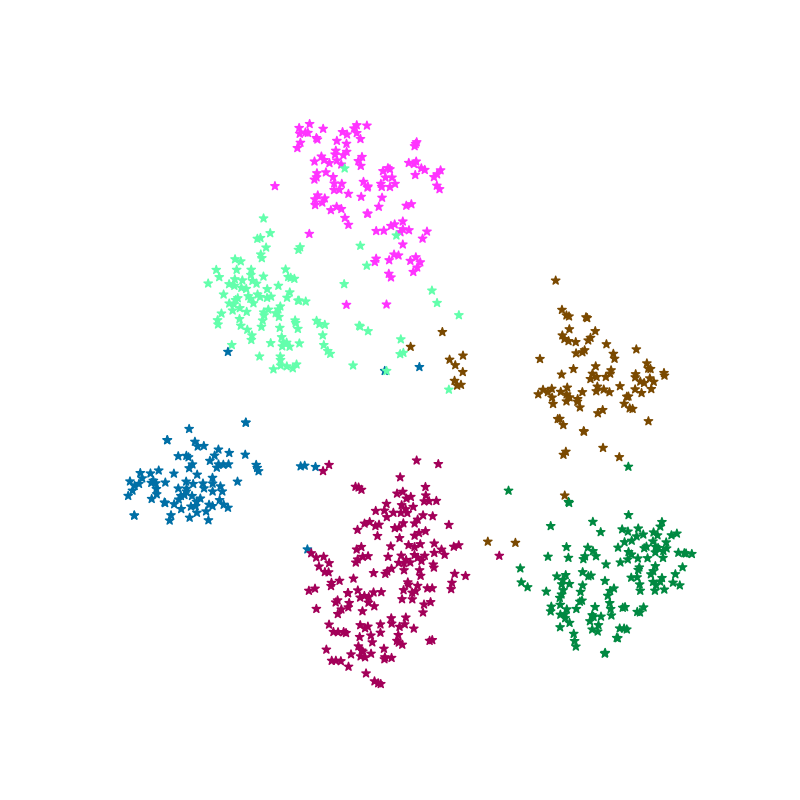
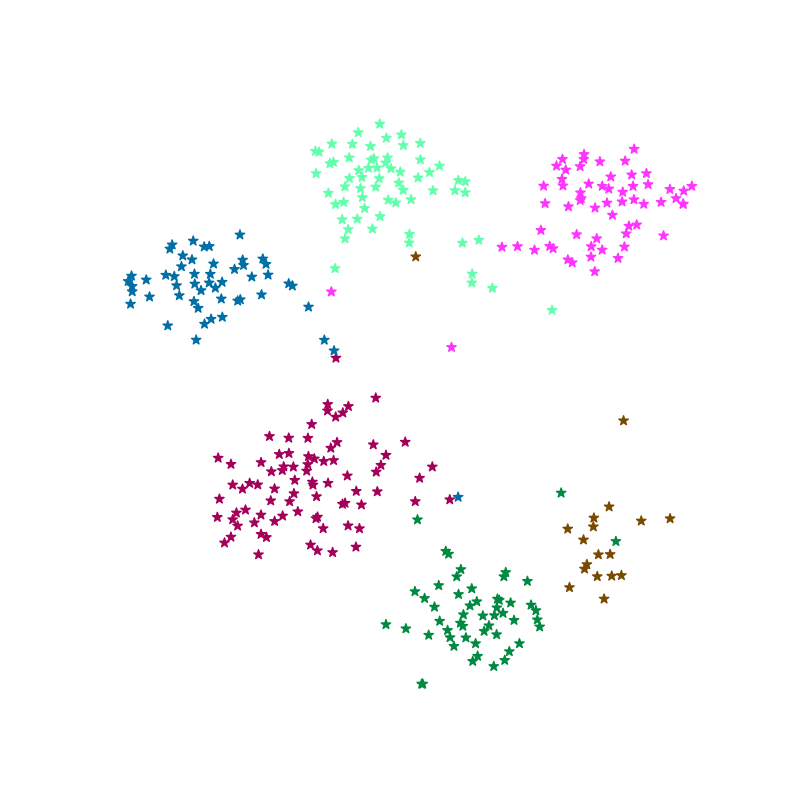
polish

diff --git a/view-vals.py b/view-vals.py
@@ -10,24 +10,24 @@ accuracy_office = [89.4, 89.6, 89.9, 89.6, 88.9, 88.6]
 
 # 创建图像
 plt.figure(figsize=(8, 6))
-
+fontsize = 20
 # 为两个数据集绘制曲线
 plt.plot(Y, accuracy_visda, '-o', color='red', label='VisDA-C')
 plt.plot(Y, accuracy_office, '-o', color='blue', label='Office')
 
 # 为每个数据点添加标签
 for i, txt in enumerate(accuracy_visda):
-    plt.annotate(f"{txt}", (Y[i], accuracy_visda[i] - 0.5), ha='center', color='black',fontsize=15)
+    plt.annotate(f"{txt}", (Y[i], accuracy_visda[i] - 0.5), ha='center', color='black',fontsize=fontsize)
 for i, txt in enumerate(accuracy_office):
-    plt.annotate(f"{txt}", (Y[i], accuracy_office[i] + 0.5), ha='center', color='black',fontsize=15)
+    plt.annotate(f"{txt}", (Y[i], accuracy_office[i] + 0.5), ha='center', color='black',fontsize=fontsize)
 
 # 设置图的其他属性
-plt.xlabel('γ', fontsize=15 )
-plt.ylabel('Accuracy (%)',fontsize=15)
+plt.xlabel('γ', fontsize=fontsize )
+plt.ylabel('Accuracy (%)',fontsize=fontsize)
 plt.ylim(80, 95)
 plt.grid(True, which='both', linestyle='--', linewidth=0.5)
-plt.legend(fontsize=15, loc='lower right' )
-plt.tick_params(labelsize=15)
+plt.legend(fontsize=fontsize, loc='lower right' )
+plt.tick_params(labelsize=fontsize)
 
 # 显示图像
 plt.tight_layout()
@@ -42,24 +42,23 @@ accuracy_office_1 = [86.7, 89.0, 89.5, 89.8, 89.9, 89.9, 89.6]
 
 # 创建图像
 plt.figure(figsize=(8, 6))
-
 # 为两个数据集绘制曲线
 plt.plot(tau, accuracy_visda_1, '-o', color='red', label='VisDA-C')
 plt.plot(tau, accuracy_office_1, '-o', color='blue', label='Office')
 
 # 为每个数据点添加标签
 for i, txt in enumerate(accuracy_visda_1):
-    plt.annotate(f"{txt}", (tau[i], accuracy_visda_1[i] - 0.5), ha='center', color='black',fontsize=15)
+    plt.annotate(f"{txt}", (tau[i], accuracy_visda_1[i] - 0.5), ha='center', color='black',fontsize=fontsize)
 for i, txt in enumerate(accuracy_office_1):
-    plt.annotate(f"{txt}", (tau[i], accuracy_office_1[i] + 0.5), ha='center', color='black',fontsize=15)
+    plt.annotate(f"{txt}", (tau[i], accuracy_office_1[i] + 0.5), ha='center', color='black',fontsize=fontsize)
 
 # 设置图的其他属性
-plt.xlabel('τ', fontsize=15 )
-plt.ylabel('Accuracy (%)',fontsize=15)
+plt.xlabel('τ', fontsize=fontsize )
+plt.ylabel('Accuracy (%)',fontsize=fontsize)
 plt.ylim(80, 95)
 plt.grid(True, which='both', linestyle='--', linewidth=0.5)
-plt.legend(fontsize=15, loc='lower right' )
-plt.tick_params(labelsize=15)
+plt.legend(fontsize=fontsize, loc='lower right' )
+plt.tick_params(labelsize=fontsize)
 
 # 显示图像
 plt.tight_layout()
@@ -75,24 +74,23 @@ accuracy_office_2 = [89.4, 89.9, 89.1, 89.3, 89.2]
 
 # 创建图像
 plt.figure(figsize=(8, 6))
-
 # 为两个数据集绘制曲线
 plt.plot(k, accuracy_visda_2, '-o', color='red', label='VisDA-C')
 plt.plot(k, accuracy_office_2, '-o', color='blue', label='Office')
 
 # 为每个数据点添加标签
 for i, txt in enumerate(accuracy_visda_2):
-    plt.annotate(f"{txt}", (k[i], accuracy_visda_2[i] - 0.5), ha='center', color='black',fontsize=15)
+    plt.annotate(f"{txt}", (k[i], accuracy_visda_2[i] - 0.5), ha='center', color='black',fontsize=fontsize)
 for i, txt in enumerate(accuracy_office_2):
-    plt.annotate(f"{txt}", (k[i], accuracy_office_2[i] + 0.5), ha='center', color='black',fontsize=15)
+    plt.annotate(f"{txt}", (k[i], accuracy_office_2[i] + 0.5), ha='center', color='black',fontsize=fontsize)
 
 # 设置图的其他属性
-plt.xlabel('k', fontsize=15 )
-plt.ylabel('Accuracy (%)',fontsize=15)
+plt.xlabel('k', fontsize=fontsize )
+plt.ylabel('Accuracy (%)',fontsize=fontsize)
 plt.ylim(80, 95)
 plt.grid(True, which='both', linestyle='--', linewidth=0.5)
-plt.legend(fontsize=15, loc='lower right' )
-plt.tick_params(labelsize=15)
+plt.legend(fontsize=fontsize, loc='lower right' )
+plt.tick_params(labelsize=fontsize)
 
 # 显示图像
 plt.tight_layout()

diff --git a/view-fig1-pse-label.py b/view-fig1-pse-label.py
@@ -17,7 +17,6 @@ torch.manual_seed(SEED)
 torch.cuda.manual_seed_all(SEED)
 np.random.seed(SEED)
 random.seed(SEED)
-torch.backends.cudnn.benchmark = True
 
 parser = argparse.ArgumentParser(description='SHOT')
 parser.add_argument('--dset', type=str, default='VISDA-C')
@@ -58,13 +57,14 @@ print(f'len of dataset:{len(mem_label)}')
 n_per_class = 100
 n_class = 5
 class_order = [0, 2, 4, 6, 8, 10]
+# class_order = [0, 1, 2, 3, 4, 5]
 n_samples = 2000
-
+start = 2000
 all_fea = all_fea.cpu().numpy()
 all_label = all_label.cpu().numpy()
-x = all_fea[:n_samples]
-y = all_label[:n_samples]
-mem_label = mem_label[:n_samples]
+x = all_fea[start:start+n_samples]
+y = all_label[start:start+n_samples]
+mem_label = mem_label[start:start+n_samples]
 
 class_mask = np.isin(y, class_order)
 x = x[class_mask]
@@ -85,11 +85,11 @@ y_cat = np.concatenate([y_clean, y_noise], axis=0).astype(np.int)
 n_clean = np.sum(true_pse_label)
 y_cat = tuple(y_cat)
 print ('start tsne...')
-tsne = TSNE(n_components=2, random_state=0, perplexity=10, n_iter=1000, learning_rate=100)
+tsne = TSNE(n_components=2, random_state=0, perplexity=30, n_iter=1000)
 transformed_data = tsne.fit_transform(x_cat)
 print ('tsne done...')
 
 # spltit
-plot_with_two_domains(transformed_data,y_cat,colors=MOUSE_10X_COLORS, source_size=n_clean,img_dir='res/pic/re-source')
+plot_with_two_domains(transformed_data,y_cat,colors=MOUSE_10X_COLORS, source_size=n_clean,img_dir='res/pic/re-source', draw_legend=False)
 plot(transformed_data[:n_clean],y_clean,colors=MOUSE_10X_COLORS, alpha=1, s=40, img_dir='res/pic/re-source-clean', draw_legend=False, marker='*' )
 plot(transformed_data[n_clean:],y_noise,colors=MOUSE_10X_COLORS, alpha=0.2, s=40, img_dir='res/pic/re-source-noisy', draw_legend=False,marker='o' )

diff --git a/utils/tsne_utils.py b/utils/tsne_utils.py
@@ -543,7 +543,7 @@ def plot_with_two_domains(
             )
             for yi in classes
         ]
-        legend_kwargs_ = dict(loc="center left", bbox_to_anchor=(0, 0), frameon=False, fontsize=20)
+        legend_kwargs_ = dict(loc="center left", bbox_to_anchor=(0.6, 1), fontsize=20)
         if legend_kwargs is not None:
             legend_kwargs_.update(legend_kwargs)
         ax.legend(handles=legend_handles, **legend_kwargs_)
